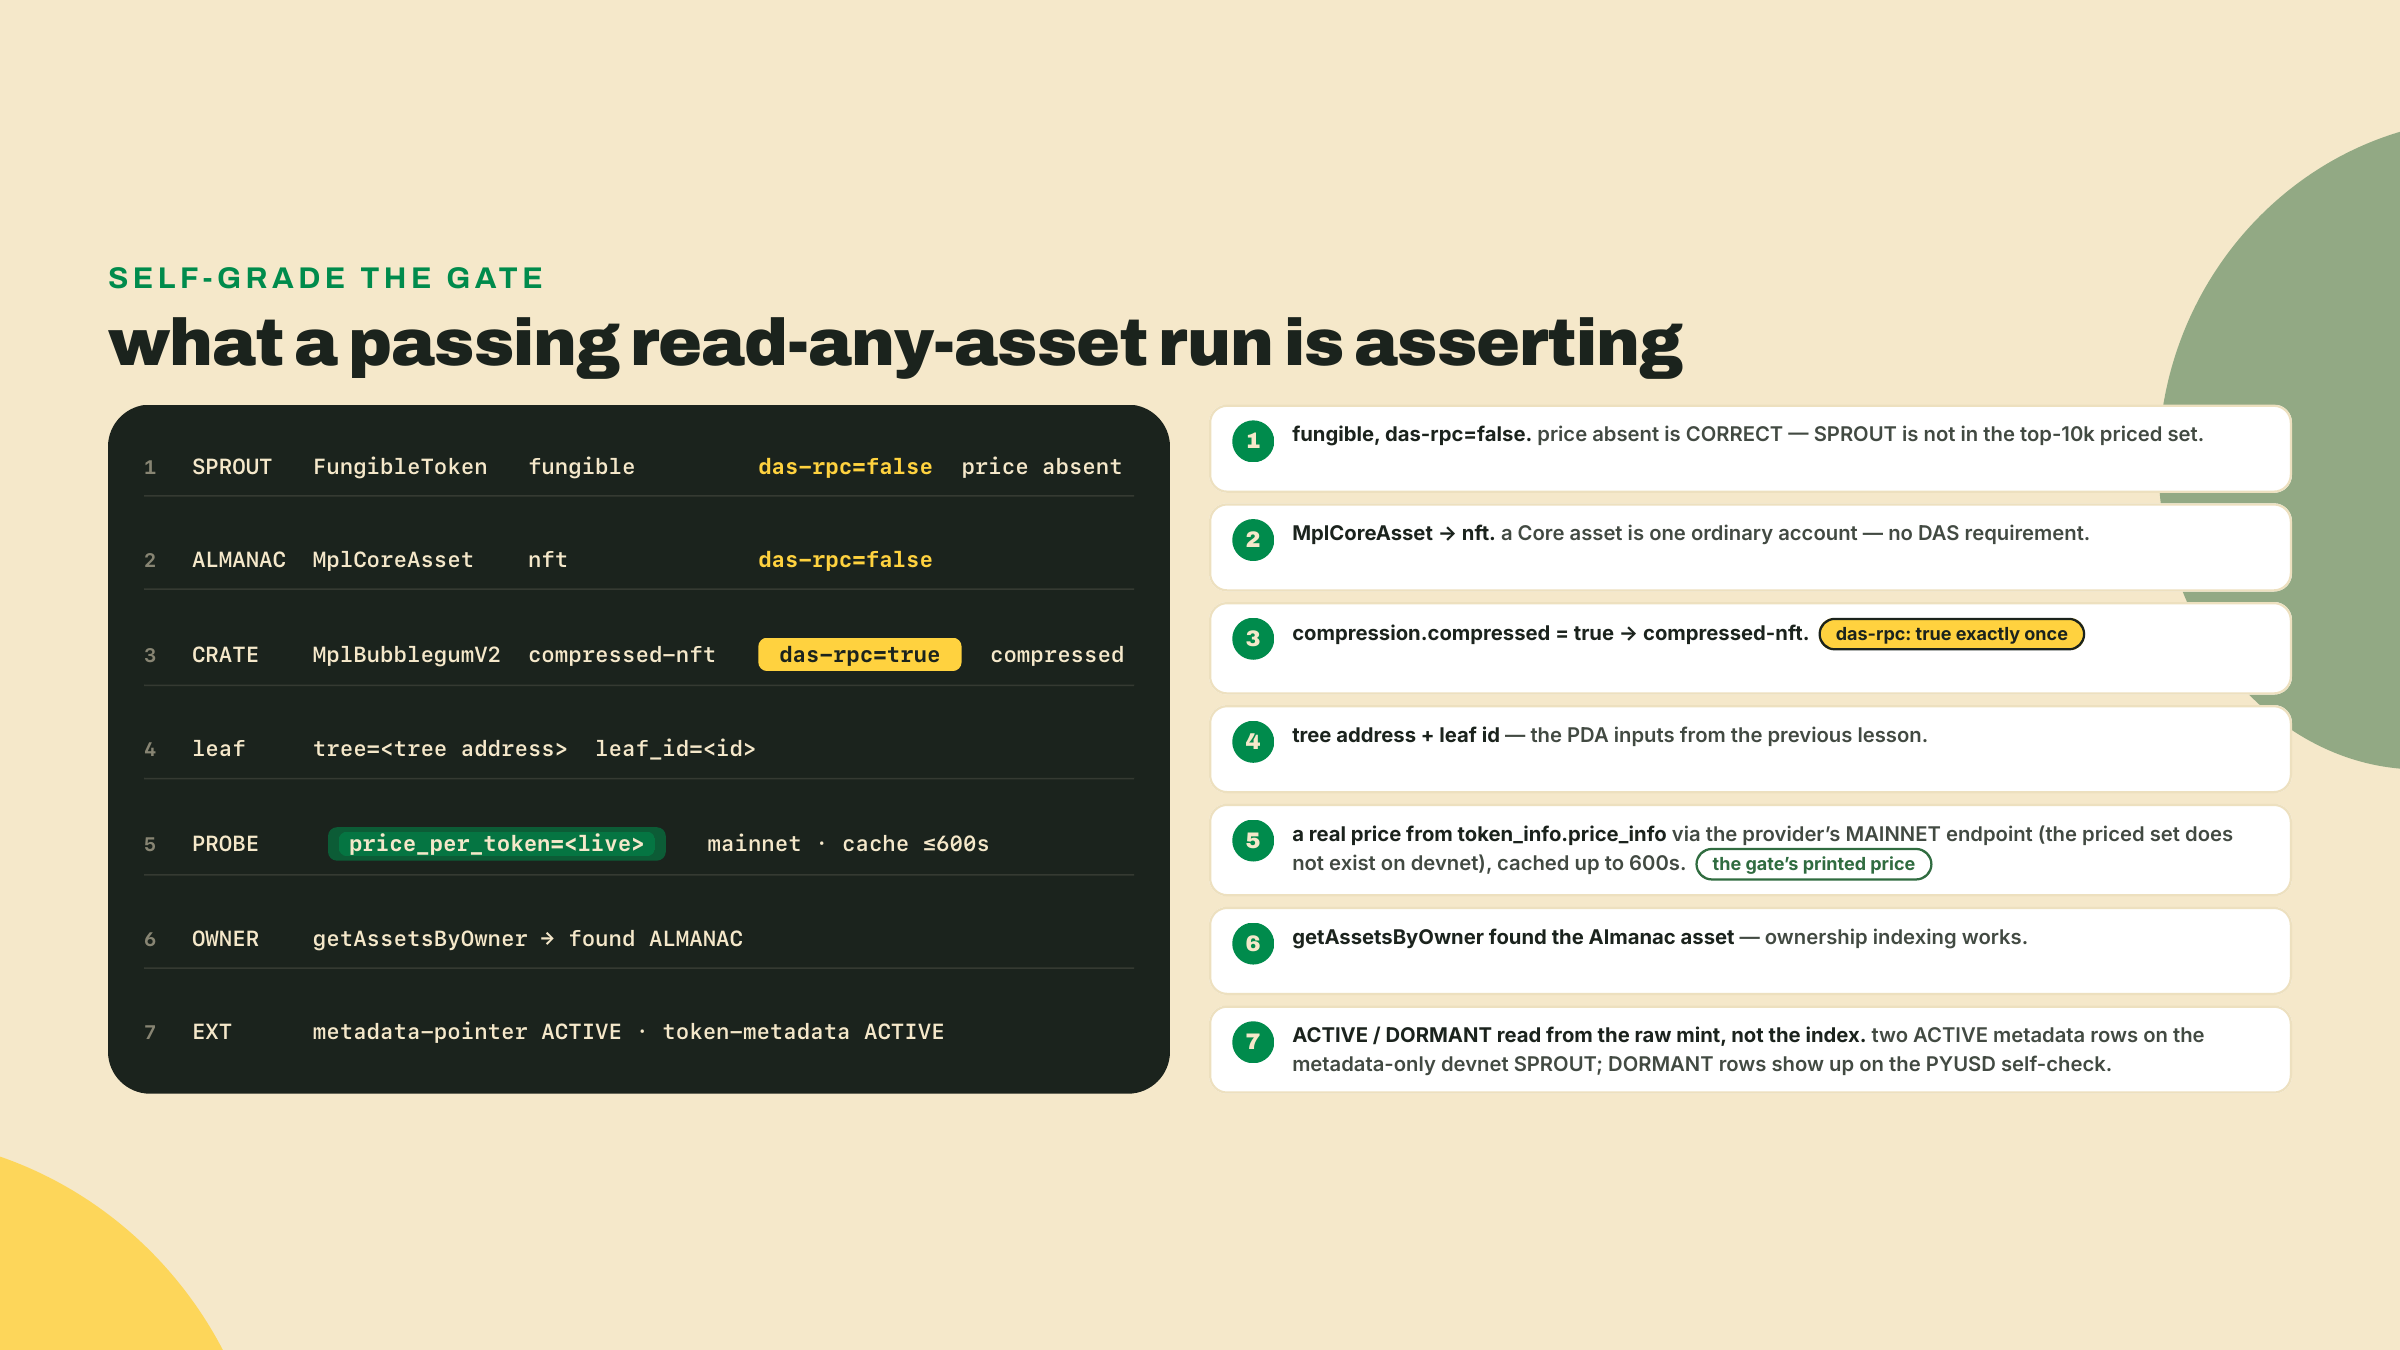
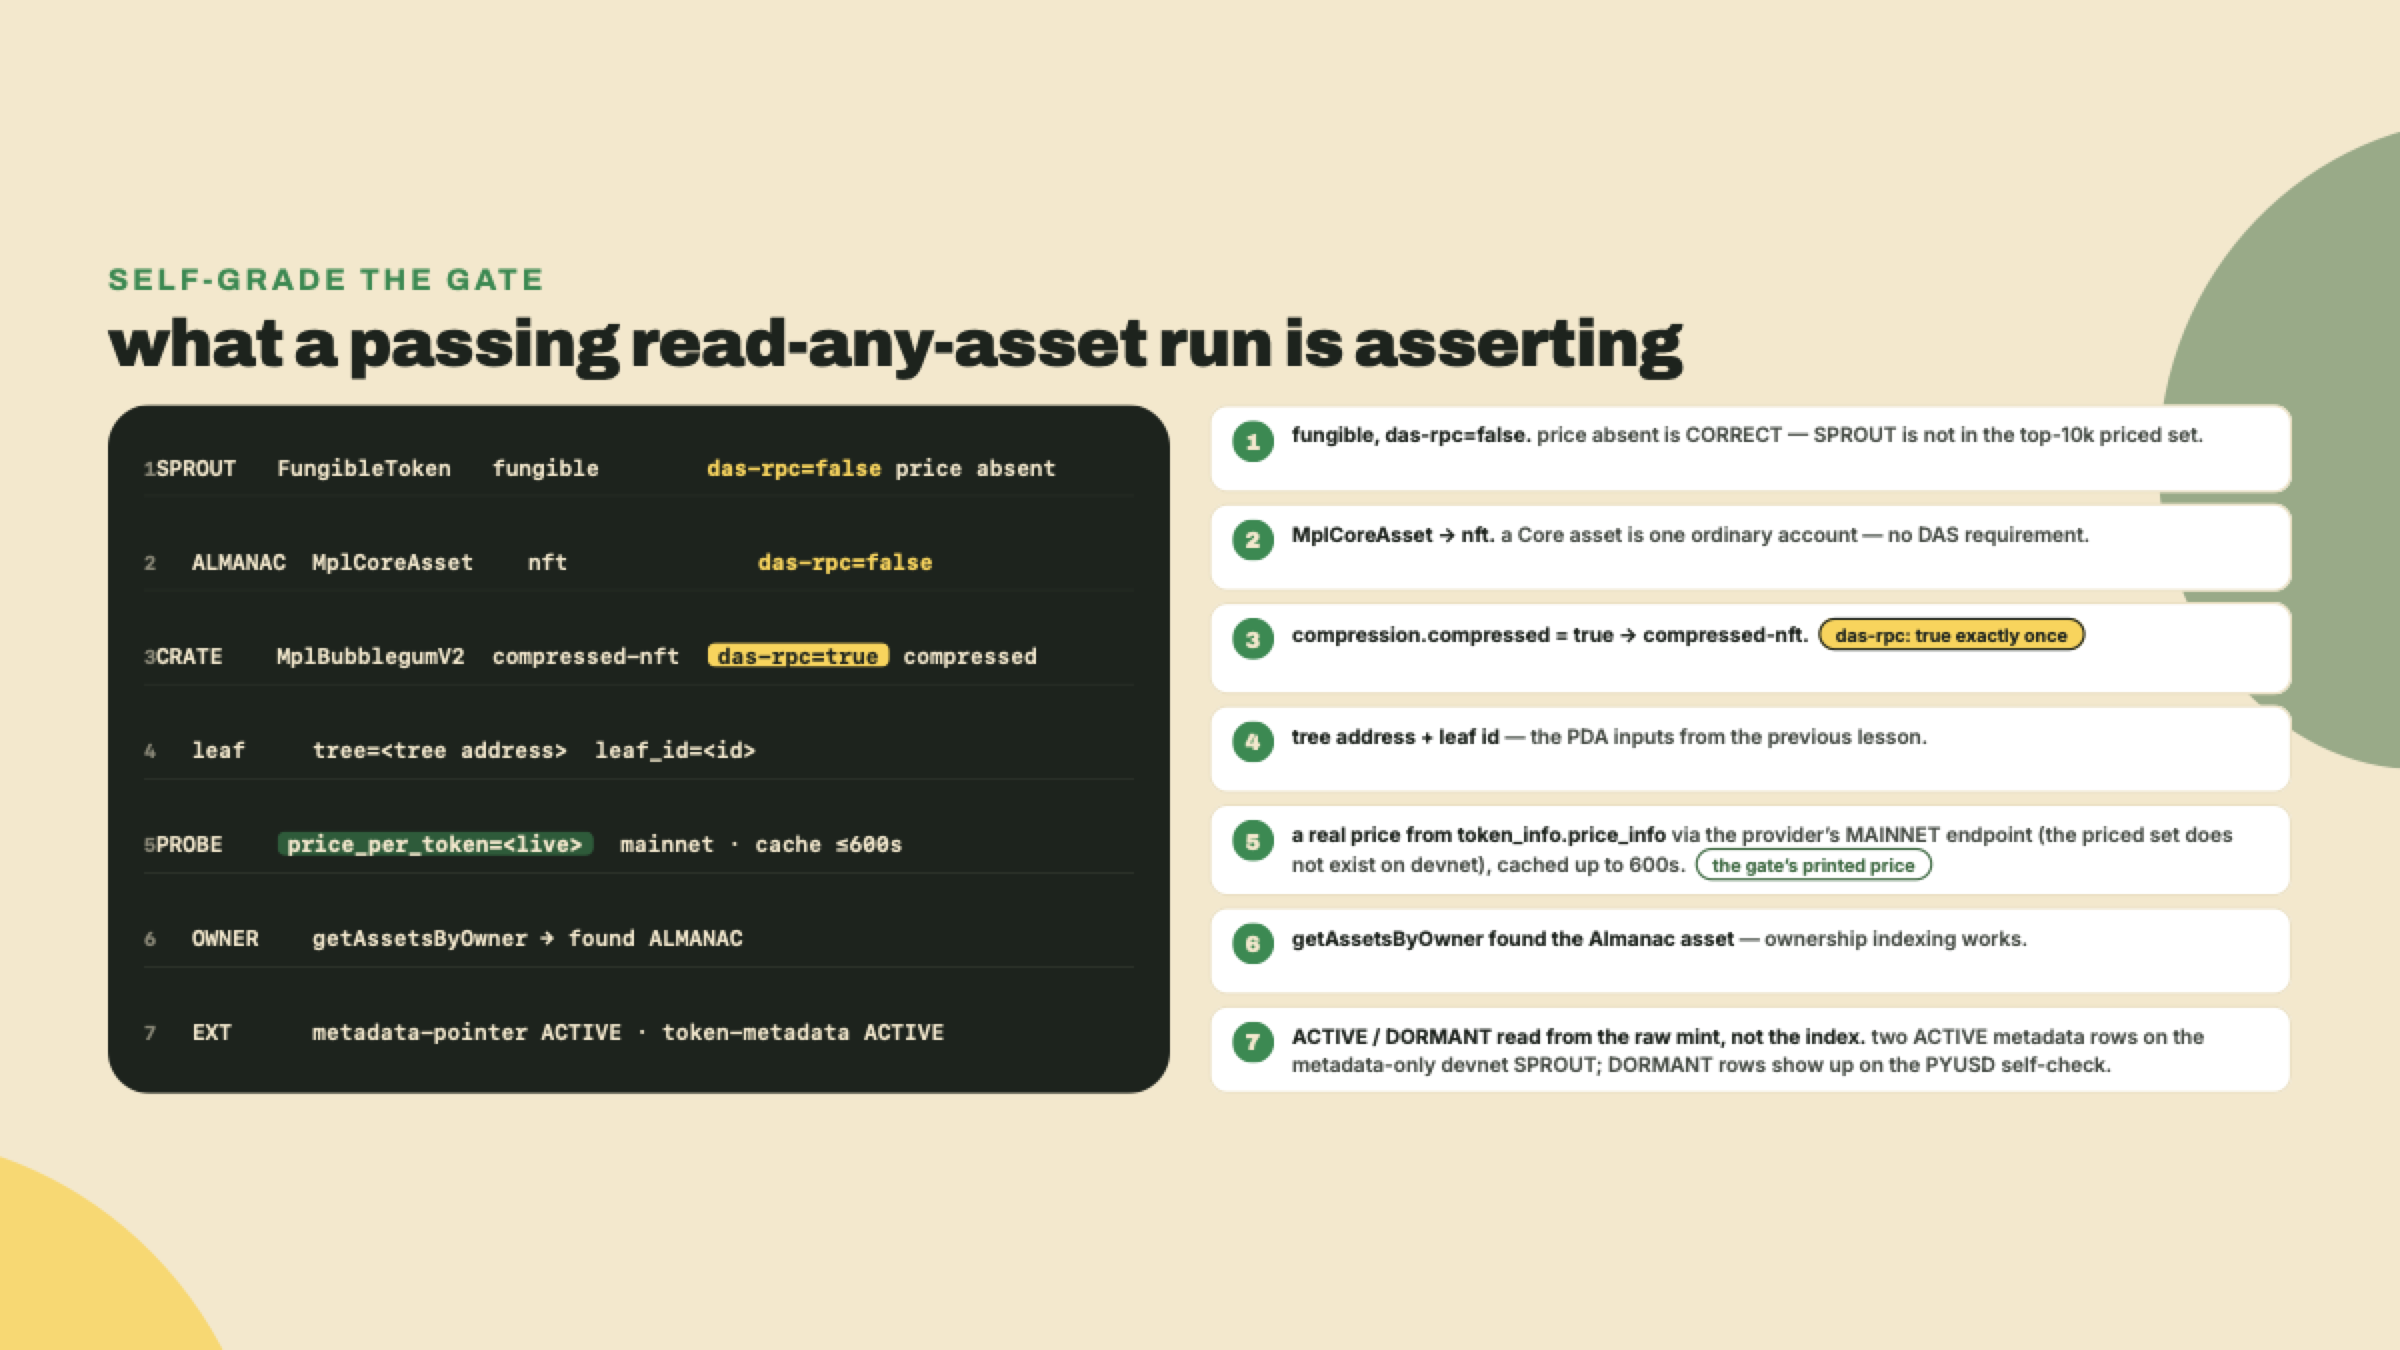
fix(visuals): flex containers were eating the spaces around <b>
Figures shipped words jammed together: "in a separateProgramDataaccount",
"in thesameaccount", "the contract writes itsownstorage". The audit read
this as a renderer bug and said to fix the pipeline. It is neither.

When a container is display:flex, each run of text between its children
becomes an anonymous flex item, and the flexbox spec discards whitespace
between items -- so `.cell { display:flex }` around
`in a separate <b>ProgramData</b> account` is three items and both spaces
are dropped. Browsers do the same.

Verified with a three-case render before editing: flex collapses, block
does not, flex with the content wrapped in one span does not. Wrapping is
the fix used here; switching to block would lose the align-items:center
these cells rely on inside a stretched row.

Figures re-rendered from the corrected sources.

diff --git a/courses/digital-assets/visual-src/m01-l4-decision-framework-conflict-matrix/v11-diagram.html b/courses/digital-assets/visual-src/m01-l4-decision-framework-conflict-matrix/v11-diagram.html
@@ -62,7 +62,7 @@
       <div class="callout">may <strong>REFUSE early</strong>: rule 4 re-guarded client-side</div>
       <div class="callout">may quietly <strong>ADD extensions</strong>: rule 2's missing bridge auto-inserted</div>
     </div>
-    <div class="rnote" style="border-color:var(--border-strong);color:var(--text-secondary);font-size:13px;">the exit code reports <strong>this layer's opinion,</strong> nothing deeper</div>
+    <div class="rnote" style="border-color:var(--border-strong);color:var(--text-secondary);font-size:13px;"><span>the exit code reports <strong>this layer's opinion,</strong> nothing deeper</span></div>
     <div class="conn"><div class="st"></div><div class="hd"></div></div><div></div>
 
     <!-- layer 3: the program -->
@@ -71,7 +71,7 @@
       <div><div class="lt" style="color:var(--text-on-brand);">the program · Token-2022 init</div>
         <div class="ls" style="color:var(--text-on-brand);opacity:0.9;">enforces exactly the five source rules, nothing more</div></div>
     </div>
-    <div class="rnote">what <strong>check-combo</strong> models: this layer alone</div>
+    <div class="rnote"><span>what <strong>check-combo</strong> models: this layer alone</span></div>
     <div class="conn"><div class="st"></div><div class="hd"></div></div><div></div>
 
     <!-- layer 4: the bytes -->
@@ -81,7 +81,7 @@
         <div class="ls" style="color:var(--text-on-dark);opacity:0.85;">what actually got built: readable via decode-mint (R1)</div></div>
       <div style="background:var(--surface-accent);color:var(--text-on-accent);border-radius:var(--radius-pill);padding:6px 18px;font-family:var(--font-body);font-size:14px;font-weight:700;white-space:nowrap;">only this layer is the truth</div>
     </div>
-    <div class="rnote">what <strong>decode-mint</strong> reads</div>
+    <div class="rnote"><span>what <strong>decode-mint</strong> reads</span></div>
   </div>
 
   <div style="margin-top:18px;border-top:1px solid var(--border-subtle);padding-top:10px;font-family:var(--font-body);font-size:14px;color:var(--text-secondary);">

diff --git a/courses/digital-assets/visual-src/m04-l1-confidential-model/v08-comparison.html b/courses/digital-assets/visual-src/m04-l1-confidential-model/v08-comparison.html
@@ -93,10 +93,8 @@
           <svg class="mark" width="20" height="20" viewBox="0 0 20 20"><line x1="4" y1="4" x2="16" y2="16" stroke="#1B231D" stroke-width="3" stroke-linecap="round"/><line x1="16" y1="4" x2="4" y2="16" stroke="#1B231D" stroke-width="3" stroke-linecap="round"/></svg>
           <span><b>must be enabled at mint creation</b> &mdash; no retrofit</span>
         </div>
-        <div class="bc-item">
-          <svg class="mark" width="20" height="20" viewBox="0 0 20 20"><line x1="4" y1="4" x2="16" y2="16" stroke="#1B231D" stroke-width="3" stroke-linecap="round"/><line x1="16" y1="4" x2="4" y2="16" stroke="#1B231D" stroke-width="3" stroke-linecap="round"/></svg>
-          <span><b>transfer hooks go amount-blind</b> (they still fire, with the <code>u64::MAX</code> sentinel)</span>
-        </div>
+        <div class="bc-item"><span><svg class="mark" width="20" height="20" viewBox="0 0 20 20"><line x1="4" y1="4" x2="16" y2="16" stroke="#1B231D" stroke-width="3" stroke-linecap="round"/><line x1="16" y1="4" x2="4" y2="16" stroke="#1B231D" stroke-width="3" stroke-linecap="round"/></svg>
+          <span><b>transfer hooks go amount-blind</b> (they still fire, with the <code>u64::MAX</code> sentinel)</span></span></div>
         <div class="bc-item">
           <svg class="mark" width="20" height="20" viewBox="0 0 20 20"><line x1="4" y1="4" x2="16" y2="16" stroke="#1B231D" stroke-width="3" stroke-linecap="round"/><line x1="16" y1="4" x2="4" y2="16" stroke="#1B231D" stroke-width="3" stroke-linecap="round"/></svg>
           <span><b>identities remain public</b> &mdash; only the amount is hidden</span>

diff --git a/courses/digital-assets/visual-src/m07-l2-reading-assets-das/v09-annotated-code.html b/courses/digital-assets/visual-src/m07-l2-reading-assets-das/v09-annotated-code.html
@@ -59,11 +59,11 @@
   <h2 class="viz-title" style="font-size:44px;">what a passing read-any-asset run is asserting</h2>
   <div class="run">
     <div class="term">
-      <div class="tline"><span class="ln">1</span>SPROUT   FungibleToken   fungible        <span class="das-f">das-rpc=false</span> price absent</div>
+      <div class="tline"><span><span class="ln">1</span>SPROUT   FungibleToken   fungible        <span class="das-f">das-rpc=false</span> price absent</span></div>
       <div class="tline"><span class="ln">2</span>ALMANAC  MplCoreAsset    nft             <span class="das-f">das-rpc=false</span></div>
-      <div class="tline"><span class="ln">3</span>CRATE    MplBubblegumV2  compressed-nft  <span class="das-t">das-rpc=true</span> compressed</div>
+      <div class="tline"><span><span class="ln">3</span>CRATE    MplBubblegumV2  compressed-nft  <span class="das-t">das-rpc=true</span> compressed</span></div>
       <div class="tline"><span class="ln">4</span>leaf     tree=&lt;tree address&gt;  leaf_id=&lt;id&gt;</div>
-      <div class="tline"><span class="ln">5</span>PROBE    <span class="price">price_per_token=&lt;live&gt;</span>  mainnet &middot; cache &le;600s</div>
+      <div class="tline"><span><span class="ln">5</span>PROBE    <span class="price">price_per_token=&lt;live&gt;</span>  mainnet &middot; cache &le;600s</span></div>
       <div class="tline"><span class="ln">6</span>OWNER    getAssetsByOwner &rarr; found ALMANAC</div>
       <div class="tline"><span class="ln">7</span>EXT      metadata-pointer ACTIVE &middot; token-metadata ACTIVE</div>
     </div>
